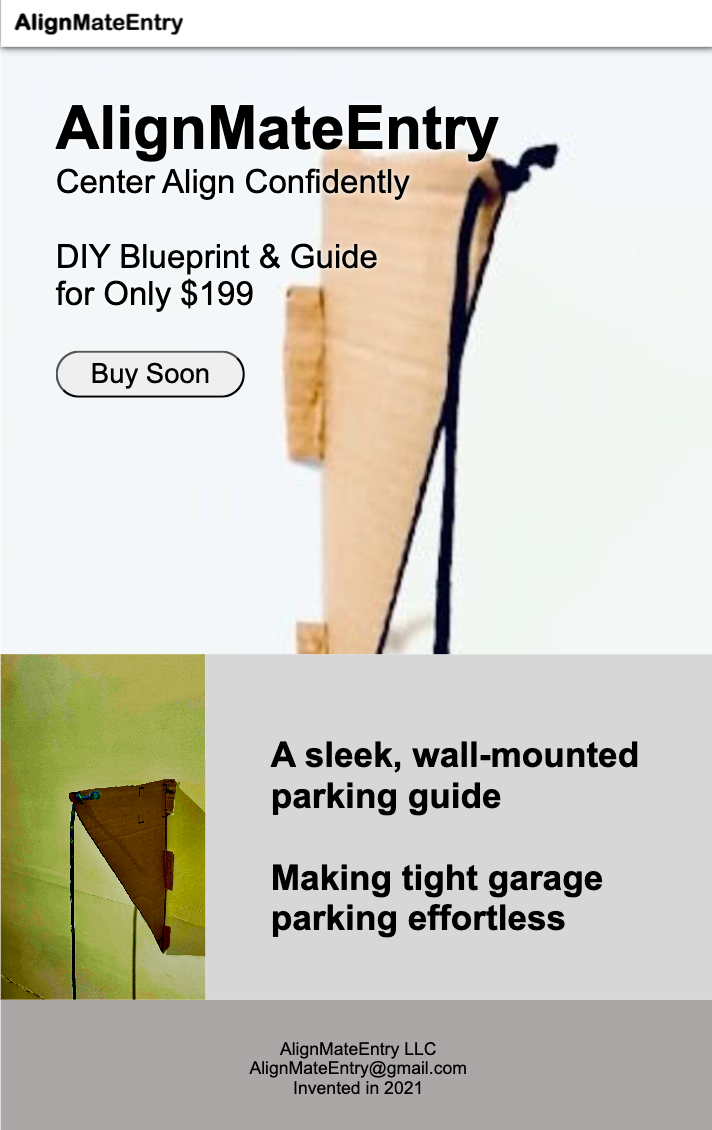
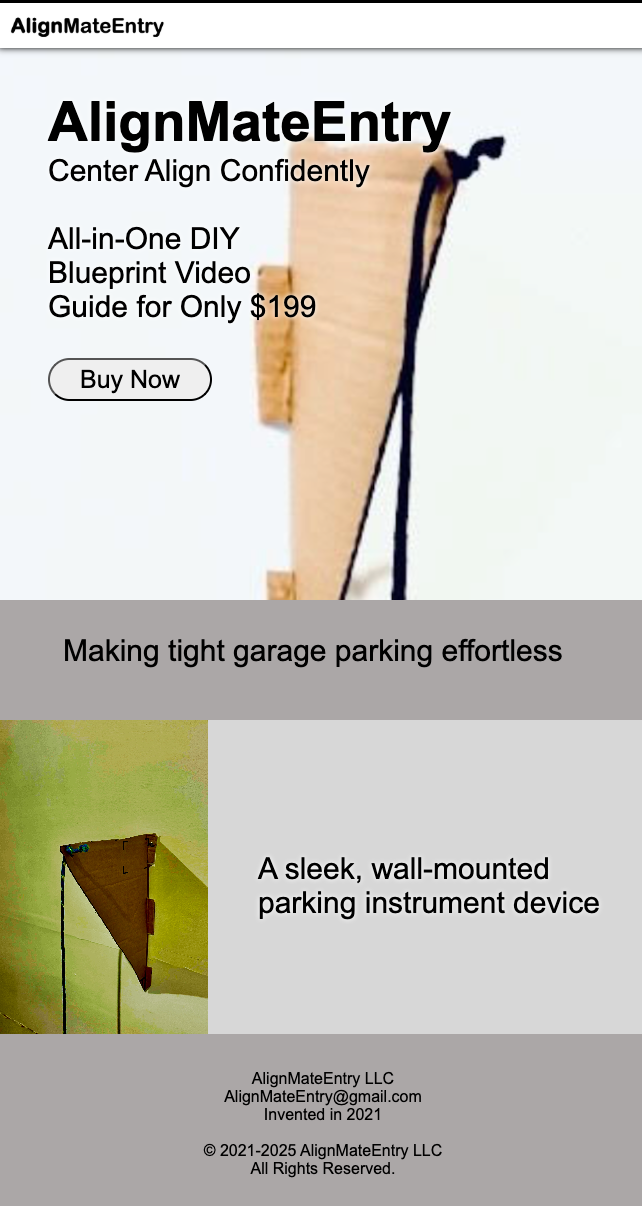
updated

Changed region(s): [[0.0, 0.0, 1.0, 0.9912]]

diff --git a/index.html b/index.html
@@ -184,6 +184,9 @@
 <br><br>
 <br><br>
   <p class="footer1" style="color: white;">Developed by Peter King - November 2017</p>
+<div> &copy; 2017-2025 Peter King. <br>
+	All Rights Reserved.</div>
+</div>
   	<br><br><br>
 	<br><br><br>
 	<br><br><br>
